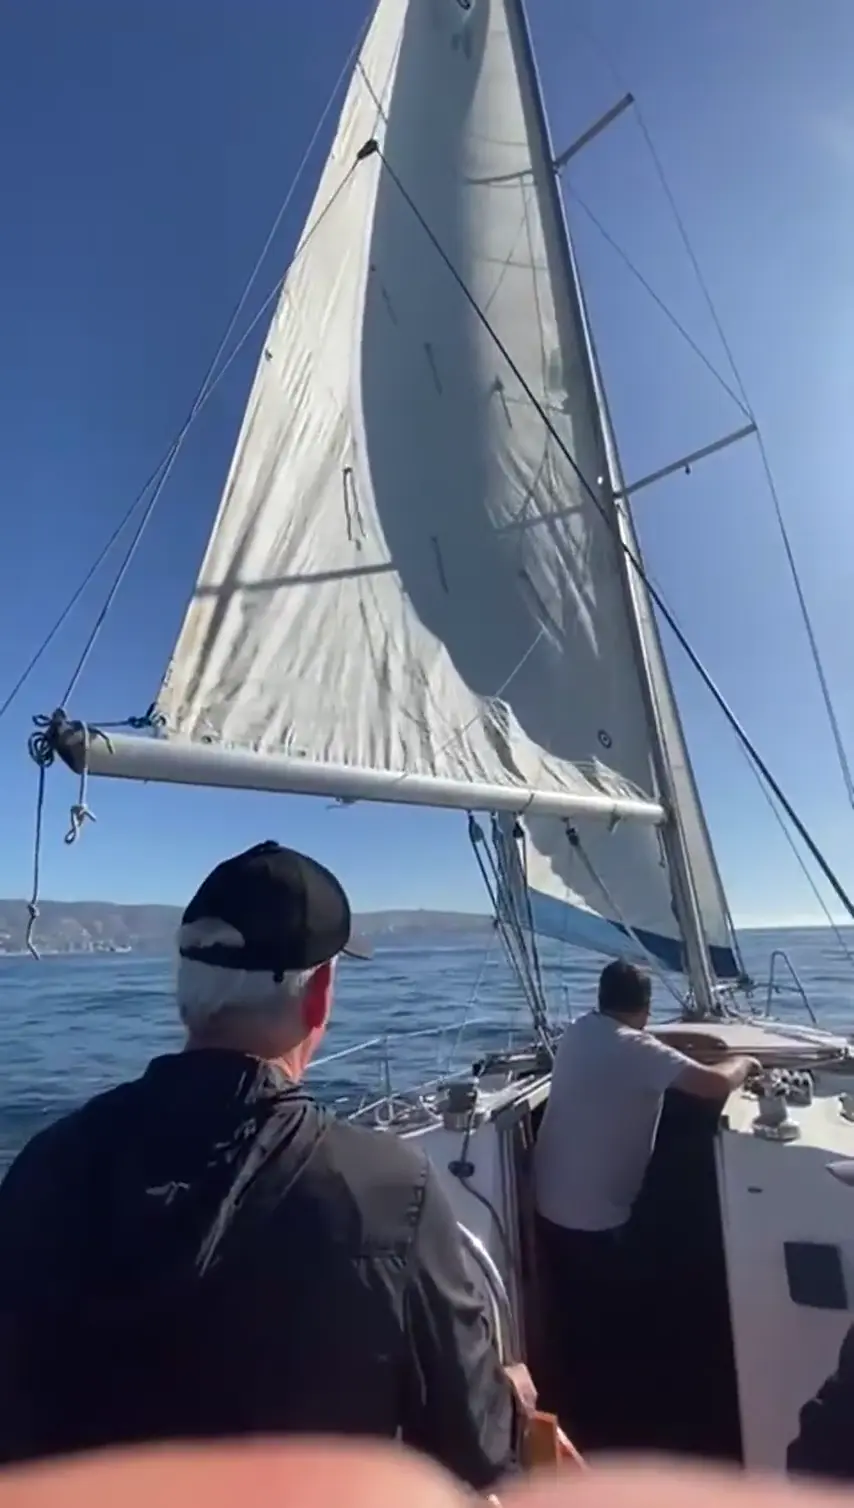
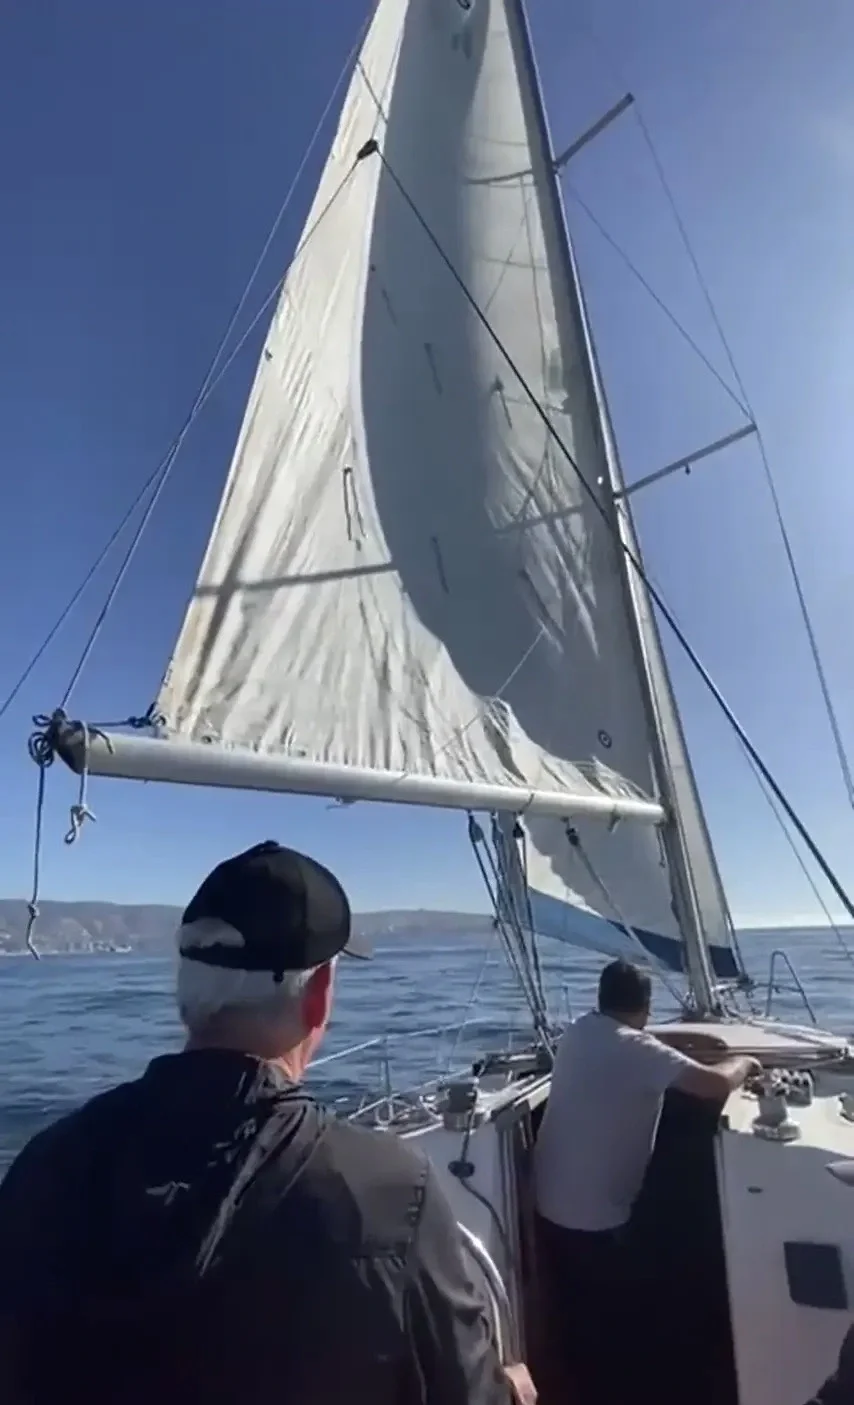
ver7.5-cambios-fotos

diff --git a/index.html b/index.html
@@ -236,7 +236,7 @@
                   <div class="num">Travesías personalizadas</div>
                   <h3><a class="card-title-link" href="#yate">Paseos en velero</a></h3>
                   <p>Disfruta el paisaje costero desde el mar en una salida recreativa, ideal para compartir con familia, amigos o en pareja. Una experiencia para relajarse y contemplar Valparaíso.</p>
-                  <p><span class="pill">Duración mínima: 3 horas</span><span class="pill">Capacidad: 9 pasajeros + capitán</span></p>
+                  <p><span class="pill">Duración mínima: 3 horas</span><span class="pill">Capacidad: hasta 6 pasajeros + capitán</span></p>
                   <a class="btn btn-primary card-link" href="#yate">Ver detalles</a>
                 </div>
               </article>
@@ -651,10 +651,10 @@
               </p>
             </div>
             <div class="raquero-hero">
-              <img src="fotos/practicando-3.webp" alt="Pasajeros con chaleco salvavidas durante un paseo en velero" width="720" height="489" decoding="async" />
+              <img src="fotos/practicando-4.webp" alt="Pasajeros con chaleco salvavidas durante un paseo en velero" width="720" height="489" decoding="async" />
               <div class="raquero-hero-caption">
                 <span>Valparaíso</span>
-                <span>Capacidad: hasta 9 pasajeros</span>
+                <span>Capacidad: hasta 6 pasajeros</span>
               </div>
             </div>
             <div class="raquero-incluye">
@@ -704,15 +704,13 @@
             <div class="raquero-header">
               <span class="raquero-eyebrow">Pesca deportiva y recreativa</span>
               <h1>Salidas de pesca</h1>
-              <p>
                 Vive una jornada en el mar enfocada en la pesca: puede ser una
                 salida deportiva, centrada en la experiencia y la técnica, o una
                 jornada recreativa para disfrutar de la actividad y del entorno
                 marino. Modalidad y condiciones se coordinan previamente.
-              </p>
             </div>
             <div class="raquero-hero">
-              <div class="photo-placeholder" aria-hidden="true"><img src="fotos/vela.webp" alt="" width="1024" height="512" loading="lazy" decoding="async" /></div>
+              <div class="photo-placeholder" aria-hidden="true"><img src="fotos/practicando-3.webp" alt="" width="1024" height="512" loading="lazy" decoding="async" /></div>
               <div class="raquero-hero-caption">
                 <span>Bahía de Valparaíso</span>
                 <span>Duración mínima: 5 horas</span>
